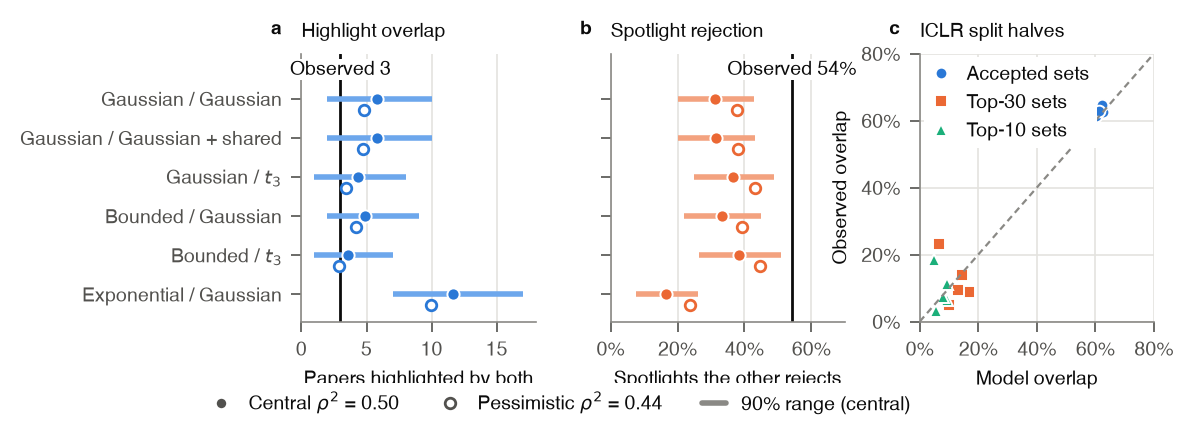
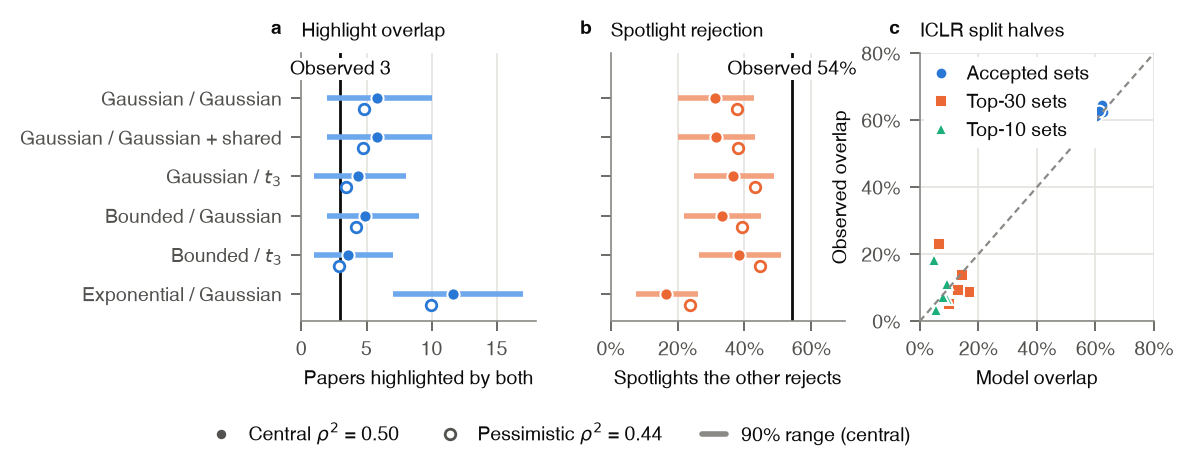
Move the Fig 2 legend clear of the axis labels

diff --git a/scripts/make_figures.py b/scripts/make_figures.py
@@ -251,7 +251,7 @@ def fig_validation():
     hl = [Line2D([], [], ls="none", marker="o", ms=4.4, color=P.INK2, mec=P.SURFACE, label="Central $\\rho^2$ = 0.50"),
           Line2D([], [], ls="none", marker="o", ms=3.8, mfc=P.SURFACE, mec=P.INK2, mew=1.0, label="Pessimistic $\\rho^2$ = 0.44"),
           Line2D([], [], color=P.MUTED, lw=2.0, label="90% range (central)")]
-    fig.legend(handles=hl, loc="upper center", bbox_to_anchor=(0.36, -0.04), ncol=3, handlelength=1.2)
+    fig.legend(handles=hl, loc="upper center", bbox_to_anchor=(0.36, -0.13), ncol=3, handlelength=1.2)
 
     ax = axes[2]
     d = ic[(ic.placement == "observed") & (ic.in_main.astype(str) == "True")]
